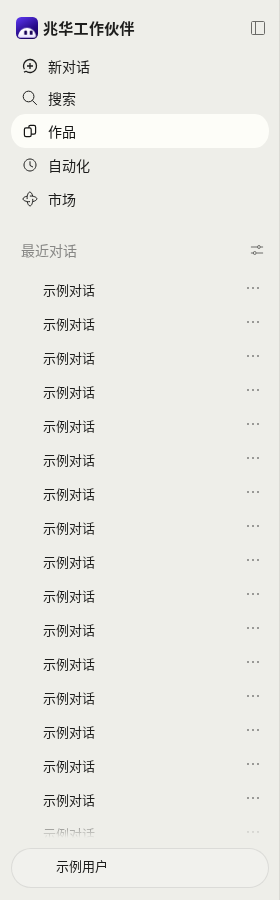
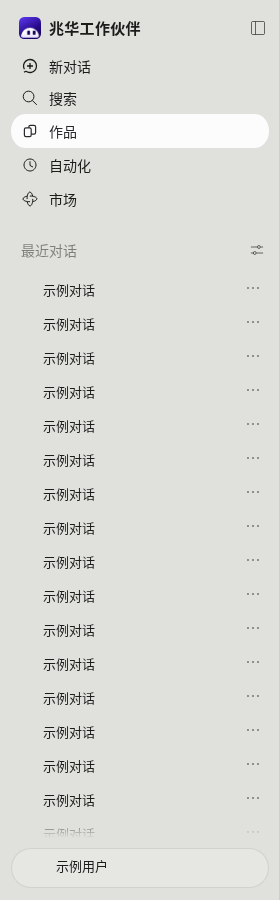
Refresh Works preview after current palette and memory updates

Changed region(s): [[0.0571, 0.0, 0.4857, 0.2489]]

diff --git a/crysound/sidebar-a/evidence/creation-preinstall/README.md b/crysound/sidebar-a/evidence/creation-preinstall/README.md
@@ -48,7 +48,7 @@ CREATION_SKIP_MOBILE=1 CDP_TAB=<专用标签页> SIDEBAR_EVIDENCE_DIR=<证据目
 - 手机抽屉与触控截图、实际伙伴镜像、实际 macOS/Windows Electron 安装包。
 - 已有上游作品插件共存、其他个人插件、作品目录与编辑器的真实升级回归；本地导航投影用例不能代替此项。
 
-最终在含 #153、#154 和记忆 0.1.3 的 main 上复跑：18/18 定向用例通过、0 跳过。远程配置边界检查接受缺省/布尔 `missingOnly`，字符串值回退完整包内配置。JS/MJS/TS 语法、shell 语法、变更范围和空白检查通过；未安装依赖、运行整套测试、完整类型检查、文档全量检查、构建镜像或桌面包。
+最终同步含 #153、#154、Cindy 配色与品牌排版更新、记忆 0.1.4 的 main 后复跑：18/18 定向用例通过、0 跳过。远程配置边界检查接受缺省/布尔 `missingOnly`，字符串值回退完整包内配置。JS/MJS/TS 语法、shell 语法、变更范围和空白检查通过；未安装依赖、运行整套测试、完整类型检查、文档全量检查、构建镜像或桌面包。
 
 | 预览 | 浅色 | 深色 |
 |:--|:--|:--|
@@ -56,3 +56,5 @@ CREATION_SKIP_MOBILE=1 CDP_TAB=<专用标签页> SIDEBAR_EVIDENCE_DIR=<证据目
 | 收起 | [浅色收起](light-collapsed.png) | [深色收起](dark-collapsed.png) |
 
 最后一次专用标签页复跑通过，未捕获页面错误或警告；[完整记录](verification.json) 的 `notVerified` 明确保留手机、真实补装、编辑器和安装包未验收项。没有嵌入演示动图：本次只记录导航静态对比，未把这些截图作为完整端到端验收。
+
+分诊已确认本单界面方向明确，剩余真实新旧账号补装、首启、手机、四类编辑器与实际安装包由伙伴助理在测试账号上验收，不重复征求界面决定。最新 main 同步后再次通过 18 项定向检查，并更新了本目录四张桌面截图和浏览器记录；未捕获页面错误或警告，截图未见单侧竖色强调条。
